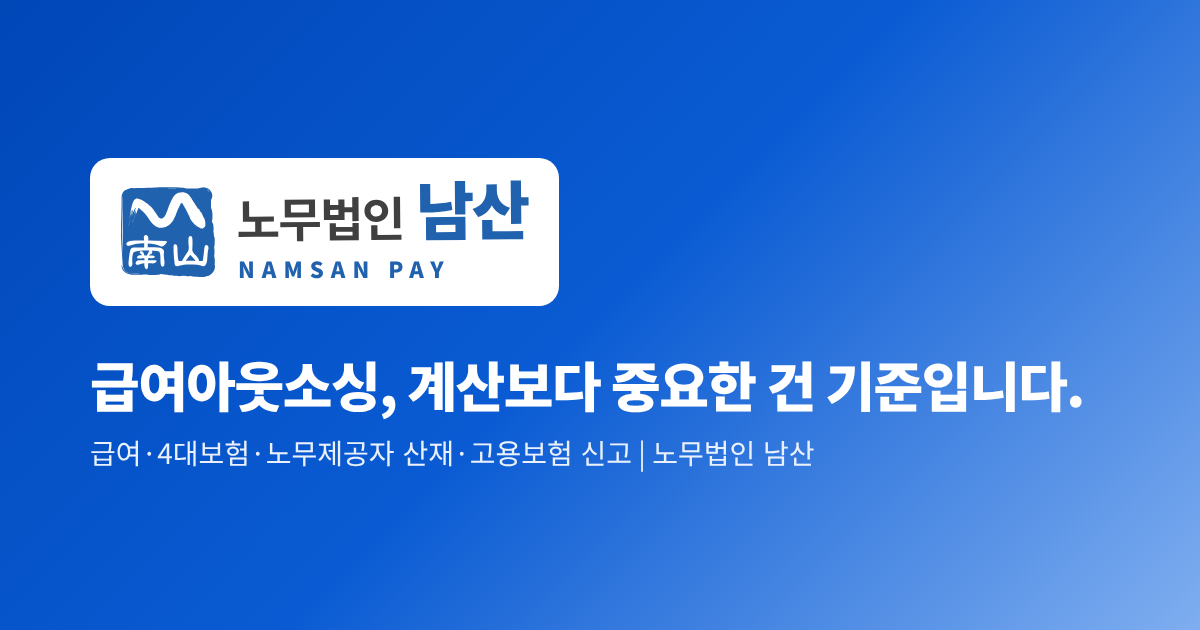
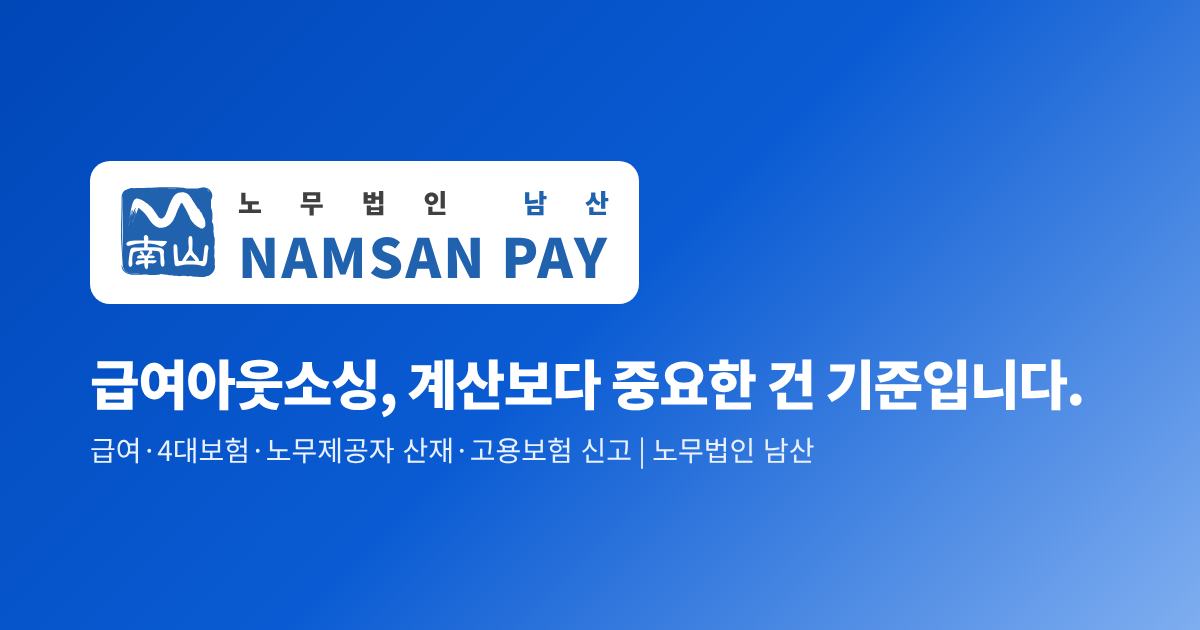
로고 글자 배치: 위 '노무법인 남산' 작게, 아래 'NAMSAN PAY' 크게, 두 줄 양끝 맞춤(공유 이미지 포함)
Claude-Session: https://claude.ai/code/session_01AtLZ5EUn5HxkmBWDedNWz7

diff --git a/board/n063/index.html b/board/n063/index.html
@@ -35,7 +35,7 @@
 <a class="skip" href="#content">본문 바로가기</a>
 <header class="site-header">
   <div class="wrap header-inner">
-    <a class="brand" href="/" aria-label="남산PAY 홈 · 노무법인 남산 급여아웃소싱"><img class="brand-mark" src="/assets/brand/namsan-mark.svg" alt="" width="44" height="42"><span class="brand-text"><img class="brand-wordmark" src="/assets/brand/namsan-wordmark.svg" alt="노무법인 남산" width="133" height="28"><span class="brand-en">NAMSAN PAY</span></span><span class="brand-sub">급여아웃소싱</span></a>
+    <a class="brand" href="/" aria-label="남산PAY 홈 · 노무법인 남산 급여아웃소싱"><img class="brand-mark" src="/assets/brand/namsan-mark.svg" alt="" width="44" height="42"><span class="brand-text"><span class="brand-ko" aria-hidden="true"><span>노</span><span>무</span><span>법</span><span>인</span><span></span><span class="b">남</span><span class="b">산</span></span><span class="brand-pay">NAMSAN PAY</span></span><span class="brand-sub">급여아웃소싱</span></a>
     <button type="button" class="menu-btn" aria-expanded="false" aria-controls="site-nav" aria-label="메뉴 열기"><span></span><span></span><span></span></button>
     <nav aria-label="주요 메뉴" class="nav" id="site-nav">
       <a href="/#scope">업무 범위</a>
@@ -109,7 +109,7 @@ DB형이나 DC형을 운영하고 있다면 퇴직자가 생기는 즉시 퇴직
 <footer class="site-footer">
   <div class="wrap footer-inner">
     <div class="footer-col">
-      <span class="brand footer-brand"><img class="brand-mark" src="/assets/brand/namsan-mark.svg" alt="" width="44" height="42"><span class="brand-text"><img class="brand-wordmark" src="/assets/brand/namsan-wordmark.svg" alt="노무법인 남산" width="133" height="28"><span class="brand-en">NAMSAN PAY</span></span></span>
+      <span class="brand footer-brand"><img class="brand-mark" src="/assets/brand/namsan-mark.svg" alt="" width="44" height="42"><span class="brand-text"><span class="brand-ko" aria-hidden="true"><span>노</span><span>무</span><span>법</span><span>인</span><span></span><span class="b">남</span><span class="b">산</span></span><span class="brand-pay">NAMSAN PAY</span></span></span>
       <strong>노무법인 남산</strong>
       <span>대표 공인노무사 정규형</span>
       

diff --git a/board/index.html b/board/index.html
@@ -35,7 +35,7 @@
 <a class="skip" href="#content">본문 바로가기</a>
 <header class="site-header">
   <div class="wrap header-inner">
-    <a class="brand" href="/" aria-label="남산PAY 홈 · 노무법인 남산 급여아웃소싱"><img class="brand-mark" src="/assets/brand/namsan-mark.svg" alt="" width="44" height="42"><span class="brand-text"><img class="brand-wordmark" src="/assets/brand/namsan-wordmark.svg" alt="노무법인 남산" width="133" height="28"><span class="brand-en">NAMSAN PAY</span></span><span class="brand-sub">급여아웃소싱</span></a>
+    <a class="brand" href="/" aria-label="남산PAY 홈 · 노무법인 남산 급여아웃소싱"><img class="brand-mark" src="/assets/brand/namsan-mark.svg" alt="" width="44" height="42"><span class="brand-text"><span class="brand-ko" aria-hidden="true"><span>노</span><span>무</span><span>법</span><span>인</span><span></span><span class="b">남</span><span class="b">산</span></span><span class="brand-pay">NAMSAN PAY</span></span><span class="brand-sub">급여아웃소싱</span></a>
     <button type="button" class="menu-btn" aria-expanded="false" aria-controls="site-nav" aria-label="메뉴 열기"><span></span><span></span><span></span></button>
     <nav aria-label="주요 메뉴" class="nav" id="site-nav">
       <a href="/#scope">업무 범위</a>
@@ -435,7 +435,7 @@
 <footer class="site-footer">
   <div class="wrap footer-inner">
     <div class="footer-col">
-      <span class="brand footer-brand"><img class="brand-mark" src="/assets/brand/namsan-mark.svg" alt="" width="44" height="42"><span class="brand-text"><img class="brand-wordmark" src="/assets/brand/namsan-wordmark.svg" alt="노무법인 남산" width="133" height="28"><span class="brand-en">NAMSAN PAY</span></span></span>
+      <span class="brand footer-brand"><img class="brand-mark" src="/assets/brand/namsan-mark.svg" alt="" width="44" height="42"><span class="brand-text"><span class="brand-ko" aria-hidden="true"><span>노</span><span>무</span><span>법</span><span>인</span><span></span><span class="b">남</span><span class="b">산</span></span><span class="brand-pay">NAMSAN PAY</span></span></span>
       <strong>노무법인 남산</strong>
       <span>대표 공인노무사 정규형</span>
       

diff --git a/board/n002/index.html b/board/n002/index.html
@@ -35,7 +35,7 @@
 <a class="skip" href="#content">본문 바로가기</a>
 <header class="site-header">
   <div class="wrap header-inner">
-    <a class="brand" href="/" aria-label="남산PAY 홈 · 노무법인 남산 급여아웃소싱"><img class="brand-mark" src="/assets/brand/namsan-mark.svg" alt="" width="44" height="42"><span class="brand-text"><img class="brand-wordmark" src="/assets/brand/namsan-wordmark.svg" alt="노무법인 남산" width="133" height="28"><span class="brand-en">NAMSAN PAY</span></span><span class="brand-sub">급여아웃소싱</span></a>
+    <a class="brand" href="/" aria-label="남산PAY 홈 · 노무법인 남산 급여아웃소싱"><img class="brand-mark" src="/assets/brand/namsan-mark.svg" alt="" width="44" height="42"><span class="brand-text"><span class="brand-ko" aria-hidden="true"><span>노</span><span>무</span><span>법</span><span>인</span><span></span><span class="b">남</span><span class="b">산</span></span><span class="brand-pay">NAMSAN PAY</span></span><span class="brand-sub">급여아웃소싱</span></a>
     <button type="button" class="menu-btn" aria-expanded="false" aria-controls="site-nav" aria-label="메뉴 열기"><span></span><span></span><span></span></button>
     <nav aria-label="주요 메뉴" class="nav" id="site-nav">
       <a href="/#scope">업무 범위</a>
@@ -110,7 +110,7 @@
 <footer class="site-footer">
   <div class="wrap footer-inner">
     <div class="footer-col">
-      <span class="brand footer-brand"><img class="brand-mark" src="/assets/brand/namsan-mark.svg" alt="" width="44" height="42"><span class="brand-text"><img class="brand-wordmark" src="/assets/brand/namsan-wordmark.svg" alt="노무법인 남산" width="133" height="28"><span class="brand-en">NAMSAN PAY</span></span></span>
+      <span class="brand footer-brand"><img class="brand-mark" src="/assets/brand/namsan-mark.svg" alt="" width="44" height="42"><span class="brand-text"><span class="brand-ko" aria-hidden="true"><span>노</span><span>무</span><span>법</span><span>인</span><span></span><span class="b">남</span><span class="b">산</span></span><span class="brand-pay">NAMSAN PAY</span></span></span>
       <strong>노무법인 남산</strong>
       <span>대표 공인노무사 정규형</span>
       

diff --git a/board/n006/index.html b/board/n006/index.html
@@ -35,7 +35,7 @@
 <a class="skip" href="#content">본문 바로가기</a>
 <header class="site-header">
   <div class="wrap header-inner">
-    <a class="brand" href="/" aria-label="남산PAY 홈 · 노무법인 남산 급여아웃소싱"><img class="brand-mark" src="/assets/brand/namsan-mark.svg" alt="" width="44" height="42"><span class="brand-text"><img class="brand-wordmark" src="/assets/brand/namsan-wordmark.svg" alt="노무법인 남산" width="133" height="28"><span class="brand-en">NAMSAN PAY</span></span><span class="brand-sub">급여아웃소싱</span></a>
+    <a class="brand" href="/" aria-label="남산PAY 홈 · 노무법인 남산 급여아웃소싱"><img class="brand-mark" src="/assets/brand/namsan-mark.svg" alt="" width="44" height="42"><span class="brand-text"><span class="brand-ko" aria-hidden="true"><span>노</span><span>무</span><span>법</span><span>인</span><span></span><span class="b">남</span><span class="b">산</span></span><span class="brand-pay">NAMSAN PAY</span></span><span class="brand-sub">급여아웃소싱</span></a>
     <button type="button" class="menu-btn" aria-expanded="false" aria-controls="site-nav" aria-label="메뉴 열기"><span></span><span></span><span></span></button>
     <nav aria-label="주요 메뉴" class="nav" id="site-nav">
       <a href="/#scope">업무 범위</a>
@@ -102,7 +102,7 @@
 <footer class="site-footer">
   <div class="wrap footer-inner">
     <div class="footer-col">
-      <span class="brand footer-brand"><img class="brand-mark" src="/assets/brand/namsan-mark.svg" alt="" width="44" height="42"><span class="brand-text"><img class="brand-wordmark" src="/assets/brand/namsan-wordmark.svg" alt="노무법인 남산" width="133" height="28"><span class="brand-en">NAMSAN PAY</span></span></span>
+      <span class="brand footer-brand"><img class="brand-mark" src="/assets/brand/namsan-mark.svg" alt="" width="44" height="42"><span class="brand-text"><span class="brand-ko" aria-hidden="true"><span>노</span><span>무</span><span>법</span><span>인</span><span></span><span class="b">남</span><span class="b">산</span></span><span class="brand-pay">NAMSAN PAY</span></span></span>
       <strong>노무법인 남산</strong>
       <span>대표 공인노무사 정규형</span>
       

diff --git a/board/n007/index.html b/board/n007/index.html
@@ -35,7 +35,7 @@
 <a class="skip" href="#content">본문 바로가기</a>
 <header class="site-header">
   <div class="wrap header-inner">
-    <a class="brand" href="/" aria-label="남산PAY 홈 · 노무법인 남산 급여아웃소싱"><img class="brand-mark" src="/assets/brand/namsan-mark.svg" alt="" width="44" height="42"><span class="brand-text"><img class="brand-wordmark" src="/assets/brand/namsan-wordmark.svg" alt="노무법인 남산" width="133" height="28"><span class="brand-en">NAMSAN PAY</span></span><span class="brand-sub">급여아웃소싱</span></a>
+    <a class="brand" href="/" aria-label="남산PAY 홈 · 노무법인 남산 급여아웃소싱"><img class="brand-mark" src="/assets/brand/namsan-mark.svg" alt="" width="44" height="42"><span class="brand-text"><span class="brand-ko" aria-hidden="true"><span>노</span><span>무</span><span>법</span><span>인</span><span></span><span class="b">남</span><span class="b">산</span></span><span class="brand-pay">NAMSAN PAY</span></span><span class="brand-sub">급여아웃소싱</span></a>
     <button type="button" class="menu-btn" aria-expanded="false" aria-controls="site-nav" aria-label="메뉴 열기"><span></span><span></span><span></span></button>
     <nav aria-label="주요 메뉴" class="nav" id="site-nav">
       <a href="/#scope">업무 범위</a>
@@ -101,7 +101,7 @@
 <footer class="site-footer">
   <div class="wrap footer-inner">
     <div class="footer-col">
-      <span class="brand footer-brand"><img class="brand-mark" src="/assets/brand/namsan-mark.svg" alt="" width="44" height="42"><span class="brand-text"><img class="brand-wordmark" src="/assets/brand/namsan-wordmark.svg" alt="노무법인 남산" width="133" height="28"><span class="brand-en">NAMSAN PAY</span></span></span>
+      <span class="brand footer-brand"><img class="brand-mark" src="/assets/brand/namsan-mark.svg" alt="" width="44" height="42"><span class="brand-text"><span class="brand-ko" aria-hidden="true"><span>노</span><span>무</span><span>법</span><span>인</span><span></span><span class="b">남</span><span class="b">산</span></span><span class="brand-pay">NAMSAN PAY</span></span></span>
       <strong>노무법인 남산</strong>
       <span>대표 공인노무사 정규형</span>
       

diff --git a/board/n009/index.html b/board/n009/index.html
@@ -35,7 +35,7 @@
 <a class="skip" href="#content">본문 바로가기</a>
 <header class="site-header">
   <div class="wrap header-inner">
-    <a class="brand" href="/" aria-label="남산PAY 홈 · 노무법인 남산 급여아웃소싱"><img class="brand-mark" src="/assets/brand/namsan-mark.svg" alt="" width="44" height="42"><span class="brand-text"><img class="brand-wordmark" src="/assets/brand/namsan-wordmark.svg" alt="노무법인 남산" width="133" height="28"><span class="brand-en">NAMSAN PAY</span></span><span class="brand-sub">급여아웃소싱</span></a>
+    <a class="brand" href="/" aria-label="남산PAY 홈 · 노무법인 남산 급여아웃소싱"><img class="brand-mark" src="/assets/brand/namsan-mark.svg" alt="" width="44" height="42"><span class="brand-text"><span class="brand-ko" aria-hidden="true"><span>노</span><span>무</span><span>법</span><span>인</span><span></span><span class="b">남</span><span class="b">산</span></span><span class="brand-pay">NAMSAN PAY</span></span><span class="brand-sub">급여아웃소싱</span></a>
     <button type="button" class="menu-btn" aria-expanded="false" aria-controls="site-nav" aria-label="메뉴 열기"><span></span><span></span><span></span></button>
     <nav aria-label="주요 메뉴" class="nav" id="site-nav">
       <a href="/#scope">업무 범위</a>
@@ -127,7 +127,7 @@
 <footer class="site-footer">
   <div class="wrap footer-inner">
     <div class="footer-col">
-      <span class="brand footer-brand"><img class="brand-mark" src="/assets/brand/namsan-mark.svg" alt="" width="44" height="42"><span class="brand-text"><img class="brand-wordmark" src="/assets/brand/namsan-wordmark.svg" alt="노무법인 남산" width="133" height="28"><span class="brand-en">NAMSAN PAY</span></span></span>
+      <span class="brand footer-brand"><img class="brand-mark" src="/assets/brand/namsan-mark.svg" alt="" width="44" height="42"><span class="brand-text"><span class="brand-ko" aria-hidden="true"><span>노</span><span>무</span><span>법</span><span>인</span><span></span><span class="b">남</span><span class="b">산</span></span><span class="brand-pay">NAMSAN PAY</span></span></span>
       <strong>노무법인 남산</strong>
       <span>대표 공인노무사 정규형</span>
       

diff --git a/board/n010/index.html b/board/n010/index.html
@@ -35,7 +35,7 @@
 <a class="skip" href="#content">본문 바로가기</a>
 <header class="site-header">
   <div class="wrap header-inner">
-    <a class="brand" href="/" aria-label="남산PAY 홈 · 노무법인 남산 급여아웃소싱"><img class="brand-mark" src="/assets/brand/namsan-mark.svg" alt="" width="44" height="42"><span class="brand-text"><img class="brand-wordmark" src="/assets/brand/namsan-wordmark.svg" alt="노무법인 남산" width="133" height="28"><span class="brand-en">NAMSAN PAY</span></span><span class="brand-sub">급여아웃소싱</span></a>
+    <a class="brand" href="/" aria-label="남산PAY 홈 · 노무법인 남산 급여아웃소싱"><img class="brand-mark" src="/assets/brand/namsan-mark.svg" alt="" width="44" height="42"><span class="brand-text"><span class="brand-ko" aria-hidden="true"><span>노</span><span>무</span><span>법</span><span>인</span><span></span><span class="b">남</span><span class="b">산</span></span><span class="brand-pay">NAMSAN PAY</span></span><span class="brand-sub">급여아웃소싱</span></a>
     <button type="button" class="menu-btn" aria-expanded="false" aria-controls="site-nav" aria-label="메뉴 열기"><span></span><span></span><span></span></button>
     <nav aria-label="주요 메뉴" class="nav" id="site-nav">
       <a href="/#scope">업무 범위</a>
@@ -105,7 +105,7 @@
 <footer class="site-footer">
   <div class="wrap footer-inner">
     <div class="footer-col">
-      <span class="brand footer-brand"><img class="brand-mark" src="/assets/brand/namsan-mark.svg" alt="" width="44" height="42"><span class="brand-text"><img class="brand-wordmark" src="/assets/brand/namsan-wordmark.svg" alt="노무법인 남산" width="133" height="28"><span class="brand-en">NAMSAN PAY</span></span></span>
+      <span class="brand footer-brand"><img class="brand-mark" src="/assets/brand/namsan-mark.svg" alt="" width="44" height="42"><span class="brand-text"><span class="brand-ko" aria-hidden="true"><span>노</span><span>무</span><span>법</span><span>인</span><span></span><span class="b">남</span><span class="b">산</span></span><span class="brand-pay">NAMSAN PAY</span></span></span>
       <strong>노무법인 남산</strong>
       <span>대표 공인노무사 정규형</span>
       

diff --git a/board/n011/index.html b/board/n011/index.html
@@ -35,7 +35,7 @@
 <a class="skip" href="#content">본문 바로가기</a>
 <header class="site-header">
   <div class="wrap header-inner">
-    <a class="brand" href="/" aria-label="남산PAY 홈 · 노무법인 남산 급여아웃소싱"><img class="brand-mark" src="/assets/brand/namsan-mark.svg" alt="" width="44" height="42"><span class="brand-text"><img class="brand-wordmark" src="/assets/brand/namsan-wordmark.svg" alt="노무법인 남산" width="133" height="28"><span class="brand-en">NAMSAN PAY</span></span><span class="brand-sub">급여아웃소싱</span></a>
+    <a class="brand" href="/" aria-label="남산PAY 홈 · 노무법인 남산 급여아웃소싱"><img class="brand-mark" src="/assets/brand/namsan-mark.svg" alt="" width="44" height="42"><span class="brand-text"><span class="brand-ko" aria-hidden="true"><span>노</span><span>무</span><span>법</span><span>인</span><span></span><span class="b">남</span><span class="b">산</span></span><span class="brand-pay">NAMSAN PAY</span></span><span class="brand-sub">급여아웃소싱</span></a>
     <button type="button" class="menu-btn" aria-expanded="false" aria-controls="site-nav" aria-label="메뉴 열기"><span></span><span></span><span></span></button>
     <nav aria-label="주요 메뉴" class="nav" id="site-nav">
       <a href="/#scope">업무 범위</a>
@@ -117,7 +117,7 @@
 <footer class="site-footer">
   <div class="wrap footer-inner">
     <div class="footer-col">
-      <span class="brand footer-brand"><img class="brand-mark" src="/assets/brand/namsan-mark.svg" alt="" width="44" height="42"><span class="brand-text"><img class="brand-wordmark" src="/assets/brand/namsan-wordmark.svg" alt="노무법인 남산" width="133" height="28"><span class="brand-en">NAMSAN PAY</span></span></span>
+      <span class="brand footer-brand"><img class="brand-mark" src="/assets/brand/namsan-mark.svg" alt="" width="44" height="42"><span class="brand-text"><span class="brand-ko" aria-hidden="true"><span>노</span><span>무</span><span>법</span><span>인</span><span></span><span class="b">남</span><span class="b">산</span></span><span class="brand-pay">NAMSAN PAY</span></span></span>
       <strong>노무법인 남산</strong>
       <span>대표 공인노무사 정규형</span>
       

diff --git a/board/n014/index.html b/board/n014/index.html
@@ -35,7 +35,7 @@
 <a class="skip" href="#content">본문 바로가기</a>
 <header class="site-header">
   <div class="wrap header-inner">
-    <a class="brand" href="/" aria-label="남산PAY 홈 · 노무법인 남산 급여아웃소싱"><img class="brand-mark" src="/assets/brand/namsan-mark.svg" alt="" width="44" height="42"><span class="brand-text"><img class="brand-wordmark" src="/assets/brand/namsan-wordmark.svg" alt="노무법인 남산" width="133" height="28"><span class="brand-en">NAMSAN PAY</span></span><span class="brand-sub">급여아웃소싱</span></a>
+    <a class="brand" href="/" aria-label="남산PAY 홈 · 노무법인 남산 급여아웃소싱"><img class="brand-mark" src="/assets/brand/namsan-mark.svg" alt="" width="44" height="42"><span class="brand-text"><span class="brand-ko" aria-hidden="true"><span>노</span><span>무</span><span>법</span><span>인</span><span></span><span class="b">남</span><span class="b">산</span></span><span class="brand-pay">NAMSAN PAY</span></span><span class="brand-sub">급여아웃소싱</span></a>
     <button type="button" class="menu-btn" aria-expanded="false" aria-controls="site-nav" aria-label="메뉴 열기"><span></span><span></span><span></span></button>
     <nav aria-label="주요 메뉴" class="nav" id="site-nav">
       <a href="/#scope">업무 범위</a>
@@ -122,7 +122,7 @@
 <footer class="site-footer">
   <div class="wrap footer-inner">
     <div class="footer-col">
-      <span class="brand footer-brand"><img class="brand-mark" src="/assets/brand/namsan-mark.svg" alt="" width="44" height="42"><span class="brand-text"><img class="brand-wordmark" src="/assets/brand/namsan-wordmark.svg" alt="노무법인 남산" width="133" height="28"><span class="brand-en">NAMSAN PAY</span></span></span>
+      <span class="brand footer-brand"><img class="brand-mark" src="/assets/brand/namsan-mark.svg" alt="" width="44" height="42"><span class="brand-text"><span class="brand-ko" aria-hidden="true"><span>노</span><span>무</span><span>법</span><span>인</span><span></span><span class="b">남</span><span class="b">산</span></span><span class="brand-pay">NAMSAN PAY</span></span></span>
       <strong>노무법인 남산</strong>
       <span>대표 공인노무사 정규형</span>
       

diff --git a/board/n015/index.html b/board/n015/index.html
@@ -35,7 +35,7 @@
 <a class="skip" href="#content">본문 바로가기</a>
 <header class="site-header">
   <div class="wrap header-inner">
-    <a class="brand" href="/" aria-label="남산PAY 홈 · 노무법인 남산 급여아웃소싱"><img class="brand-mark" src="/assets/brand/namsan-mark.svg" alt="" width="44" height="42"><span class="brand-text"><img class="brand-wordmark" src="/assets/brand/namsan-wordmark.svg" alt="노무법인 남산" width="133" height="28"><span class="brand-en">NAMSAN PAY</span></span><span class="brand-sub">급여아웃소싱</span></a>
+    <a class="brand" href="/" aria-label="남산PAY 홈 · 노무법인 남산 급여아웃소싱"><img class="brand-mark" src="/assets/brand/namsan-mark.svg" alt="" width="44" height="42"><span class="brand-text"><span class="brand-ko" aria-hidden="true"><span>노</span><span>무</span><span>법</span><span>인</span><span></span><span class="b">남</span><span class="b">산</span></span><span class="brand-pay">NAMSAN PAY</span></span><span class="brand-sub">급여아웃소싱</span></a>
     <button type="button" class="menu-btn" aria-expanded="false" aria-controls="site-nav" aria-label="메뉴 열기"><span></span><span></span><span></span></button>
     <nav aria-label="주요 메뉴" class="nav" id="site-nav">
       <a href="/#scope">업무 범위</a>
@@ -122,7 +122,7 @@
 <footer class="site-footer">
   <div class="wrap footer-inner">
     <div class="footer-col">
-      <span class="brand footer-brand"><img class="brand-mark" src="/assets/brand/namsan-mark.svg" alt="" width="44" height="42"><span class="brand-text"><img class="brand-wordmark" src="/assets/brand/namsan-wordmark.svg" alt="노무법인 남산" width="133" height="28"><span class="brand-en">NAMSAN PAY</span></span></span>
+      <span class="brand footer-brand"><img class="brand-mark" src="/assets/brand/namsan-mark.svg" alt="" width="44" height="42"><span class="brand-text"><span class="brand-ko" aria-hidden="true"><span>노</span><span>무</span><span>법</span><span>인</span><span></span><span class="b">남</span><span class="b">산</span></span><span class="brand-pay">NAMSAN PAY</span></span></span>
       <strong>노무법인 남산</strong>
       <span>대표 공인노무사 정규형</span>
       

diff --git a/board/n016/index.html b/board/n016/index.html
@@ -35,7 +35,7 @@
 <a class="skip" href="#content">본문 바로가기</a>
 <header class="site-header">
   <div class="wrap header-inner">
-    <a class="brand" href="/" aria-label="남산PAY 홈 · 노무법인 남산 급여아웃소싱"><img class="brand-mark" src="/assets/brand/namsan-mark.svg" alt="" width="44" height="42"><span class="brand-text"><img class="brand-wordmark" src="/assets/brand/namsan-wordmark.svg" alt="노무법인 남산" width="133" height="28"><span class="brand-en">NAMSAN PAY</span></span><span class="brand-sub">급여아웃소싱</span></a>
+    <a class="brand" href="/" aria-label="남산PAY 홈 · 노무법인 남산 급여아웃소싱"><img class="brand-mark" src="/assets/brand/namsan-mark.svg" alt="" width="44" height="42"><span class="brand-text"><span class="brand-ko" aria-hidden="true"><span>노</span><span>무</span><span>법</span><span>인</span><span></span><span class="b">남</span><span class="b">산</span></span><span class="brand-pay">NAMSAN PAY</span></span><span class="brand-sub">급여아웃소싱</span></a>
     <button type="button" class="menu-btn" aria-expanded="false" aria-controls="site-nav" aria-label="메뉴 열기"><span></span><span></span><span></span></button>
     <nav aria-label="주요 메뉴" class="nav" id="site-nav">
       <a href="/#scope">업무 범위</a>
@@ -105,7 +105,7 @@
 <footer class="site-footer">
   <div class="wrap footer-inner">
     <div class="footer-col">
-      <span class="brand footer-brand"><img class="brand-mark" src="/assets/brand/namsan-mark.svg" alt="" width="44" height="42"><span class="brand-text"><img class="brand-wordmark" src="/assets/brand/namsan-wordmark.svg" alt="노무법인 남산" width="133" height="28"><span class="brand-en">NAMSAN PAY</span></span></span>
+      <span class="brand footer-brand"><img class="brand-mark" src="/assets/brand/namsan-mark.svg" alt="" width="44" height="42"><span class="brand-text"><span class="brand-ko" aria-hidden="true"><span>노</span><span>무</span><span>법</span><span>인</span><span></span><span class="b">남</span><span class="b">산</span></span><span class="brand-pay">NAMSAN PAY</span></span></span>
       <strong>노무법인 남산</strong>
       <span>대표 공인노무사 정규형</span>
       

diff --git a/board/n020/index.html b/board/n020/index.html
@@ -35,7 +35,7 @@
 <a class="skip" href="#content">본문 바로가기</a>
 <header class="site-header">
   <div class="wrap header-inner">
-    <a class="brand" href="/" aria-label="남산PAY 홈 · 노무법인 남산 급여아웃소싱"><img class="brand-mark" src="/assets/brand/namsan-mark.svg" alt="" width="44" height="42"><span class="brand-text"><img class="brand-wordmark" src="/assets/brand/namsan-wordmark.svg" alt="노무법인 남산" width="133" height="28"><span class="brand-en">NAMSAN PAY</span></span><span class="brand-sub">급여아웃소싱</span></a>
+    <a class="brand" href="/" aria-label="남산PAY 홈 · 노무법인 남산 급여아웃소싱"><img class="brand-mark" src="/assets/brand/namsan-mark.svg" alt="" width="44" height="42"><span class="brand-text"><span class="brand-ko" aria-hidden="true"><span>노</span><span>무</span><span>법</span><span>인</span><span></span><span class="b">남</span><span class="b">산</span></span><span class="brand-pay">NAMSAN PAY</span></span><span class="brand-sub">급여아웃소싱</span></a>
     <button type="button" class="menu-btn" aria-expanded="false" aria-controls="site-nav" aria-label="메뉴 열기"><span></span><span></span><span></span></button>
     <nav aria-label="주요 메뉴" class="nav" id="site-nav">
       <a href="/#scope">업무 범위</a>
@@ -105,7 +105,7 @@
 <footer class="site-footer">
   <div class="wrap footer-inner">
     <div class="footer-col">
-      <span class="brand footer-brand"><img class="brand-mark" src="/assets/brand/namsan-mark.svg" alt="" width="44" height="42"><span class="brand-text"><img class="brand-wordmark" src="/assets/brand/namsan-wordmark.svg" alt="노무법인 남산" width="133" height="28"><span class="brand-en">NAMSAN PAY</span></span></span>
+      <span class="brand footer-brand"><img class="brand-mark" src="/assets/brand/namsan-mark.svg" alt="" width="44" height="42"><span class="brand-text"><span class="brand-ko" aria-hidden="true"><span>노</span><span>무</span><span>법</span><span>인</span><span></span><span class="b">남</span><span class="b">산</span></span><span class="brand-pay">NAMSAN PAY</span></span></span>
       <strong>노무법인 남산</strong>
       <span>대표 공인노무사 정규형</span>
       
